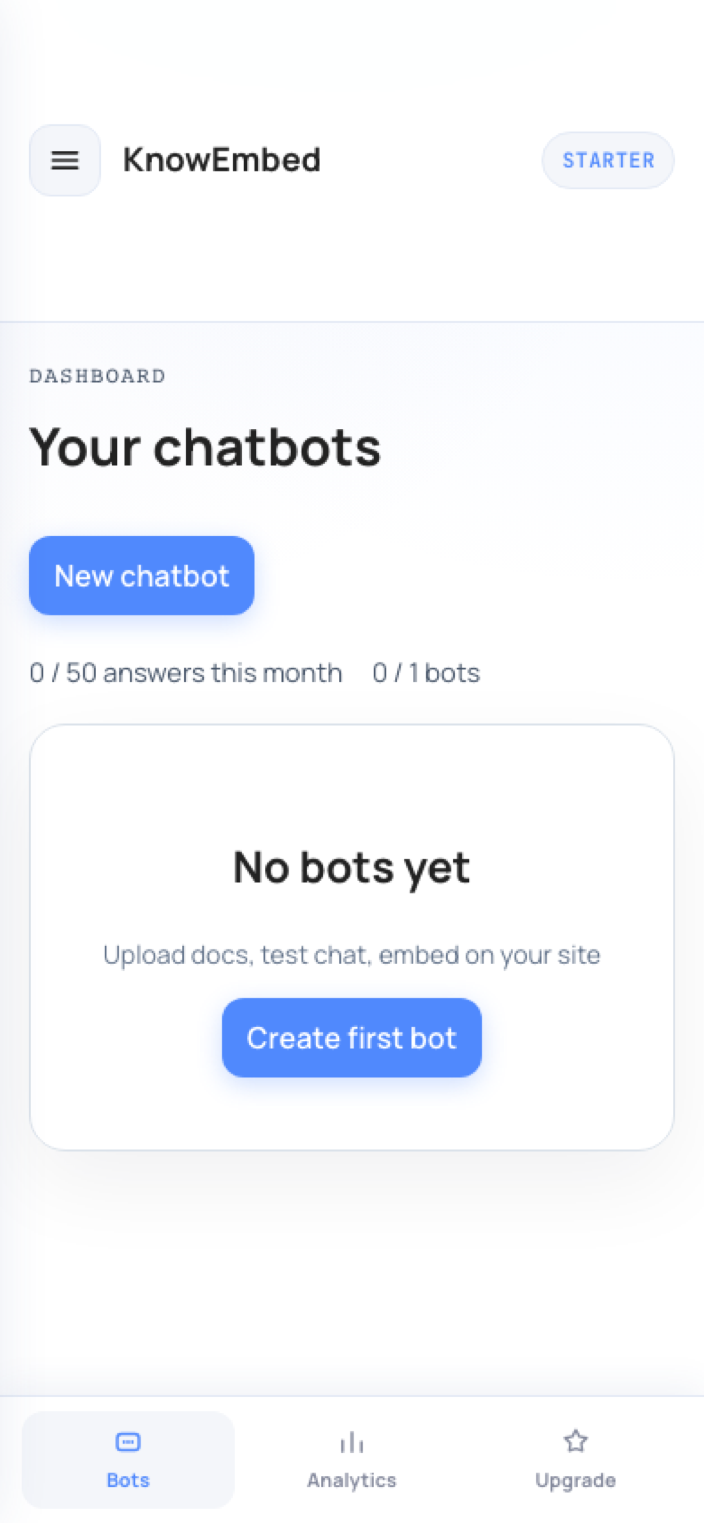
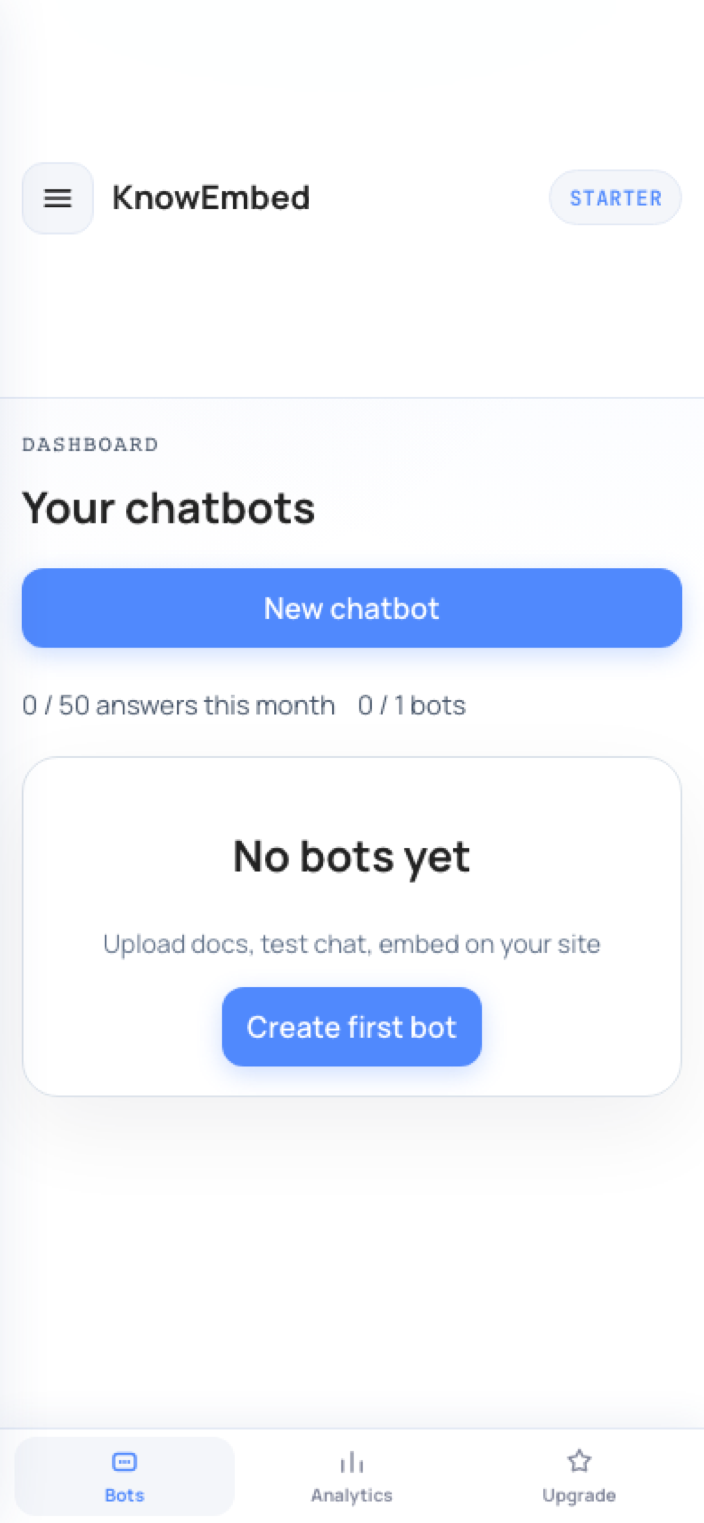
Refresh KnowEmbed portfolio previews after design update.
Recapture mobile landing, embed store, and admin screenshots with cache-busting query param.

diff --git a/src/data/showcases/knowembed.ts b/src/data/showcases/knowembed.ts
@@ -1,6 +1,6 @@
 import type { DemoShowcaseConfig } from "../demoShowcaseTypes";
 
-const previewV = "?v=20260802";
+const previewV = "?v=20260802b";
 
 export const knowembedShowcase: DemoShowcaseConfig = {
   id: "knowembed",
